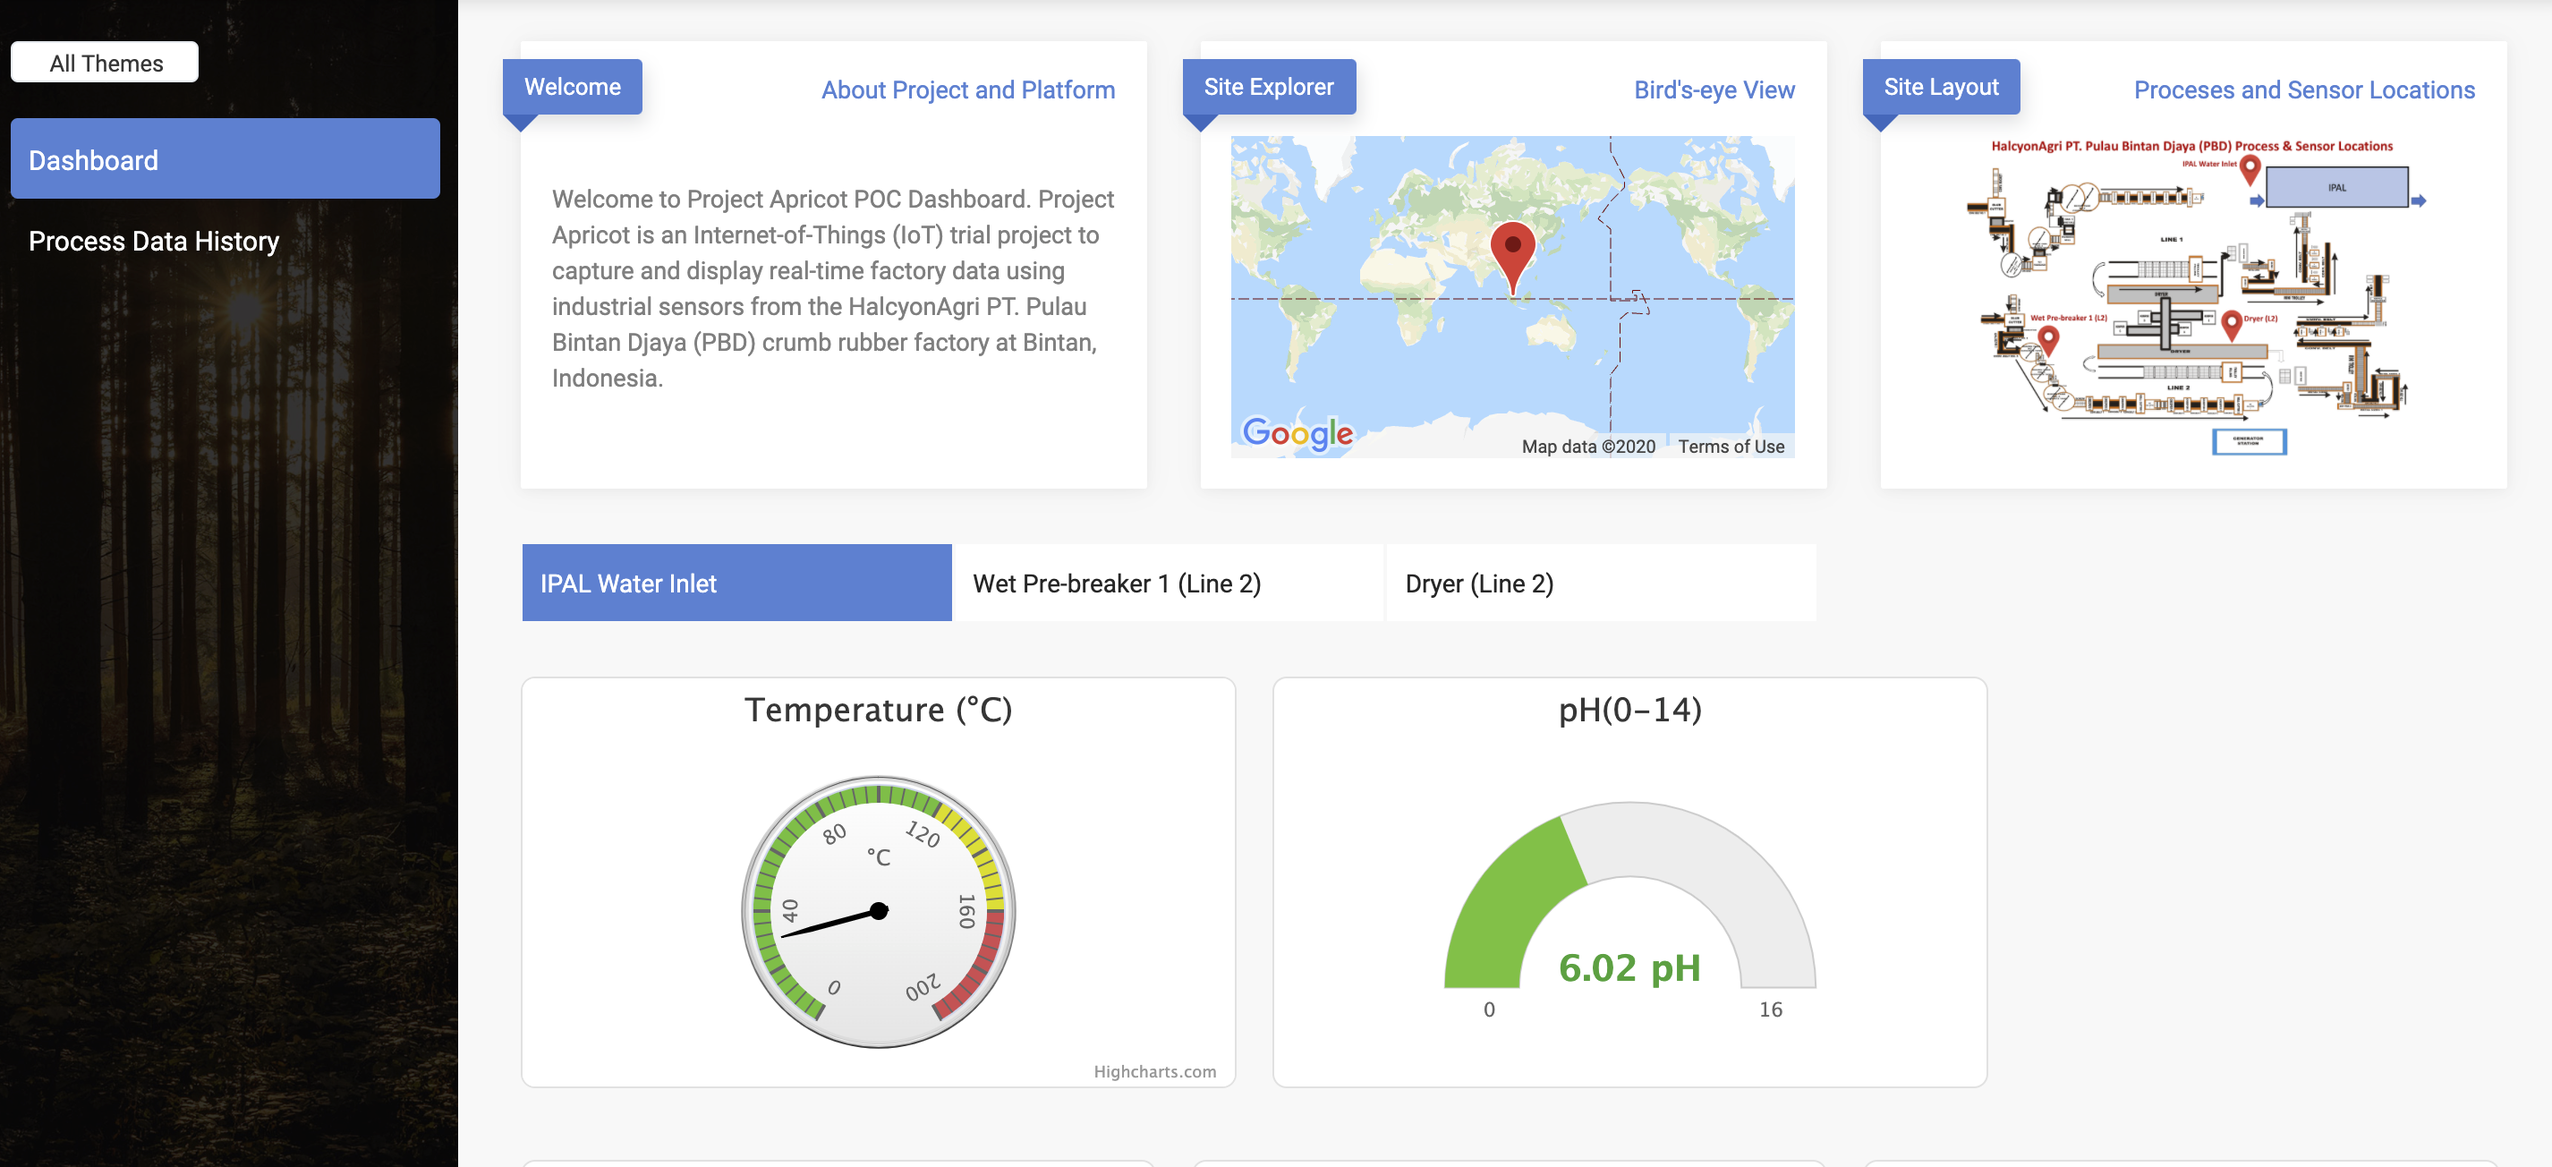
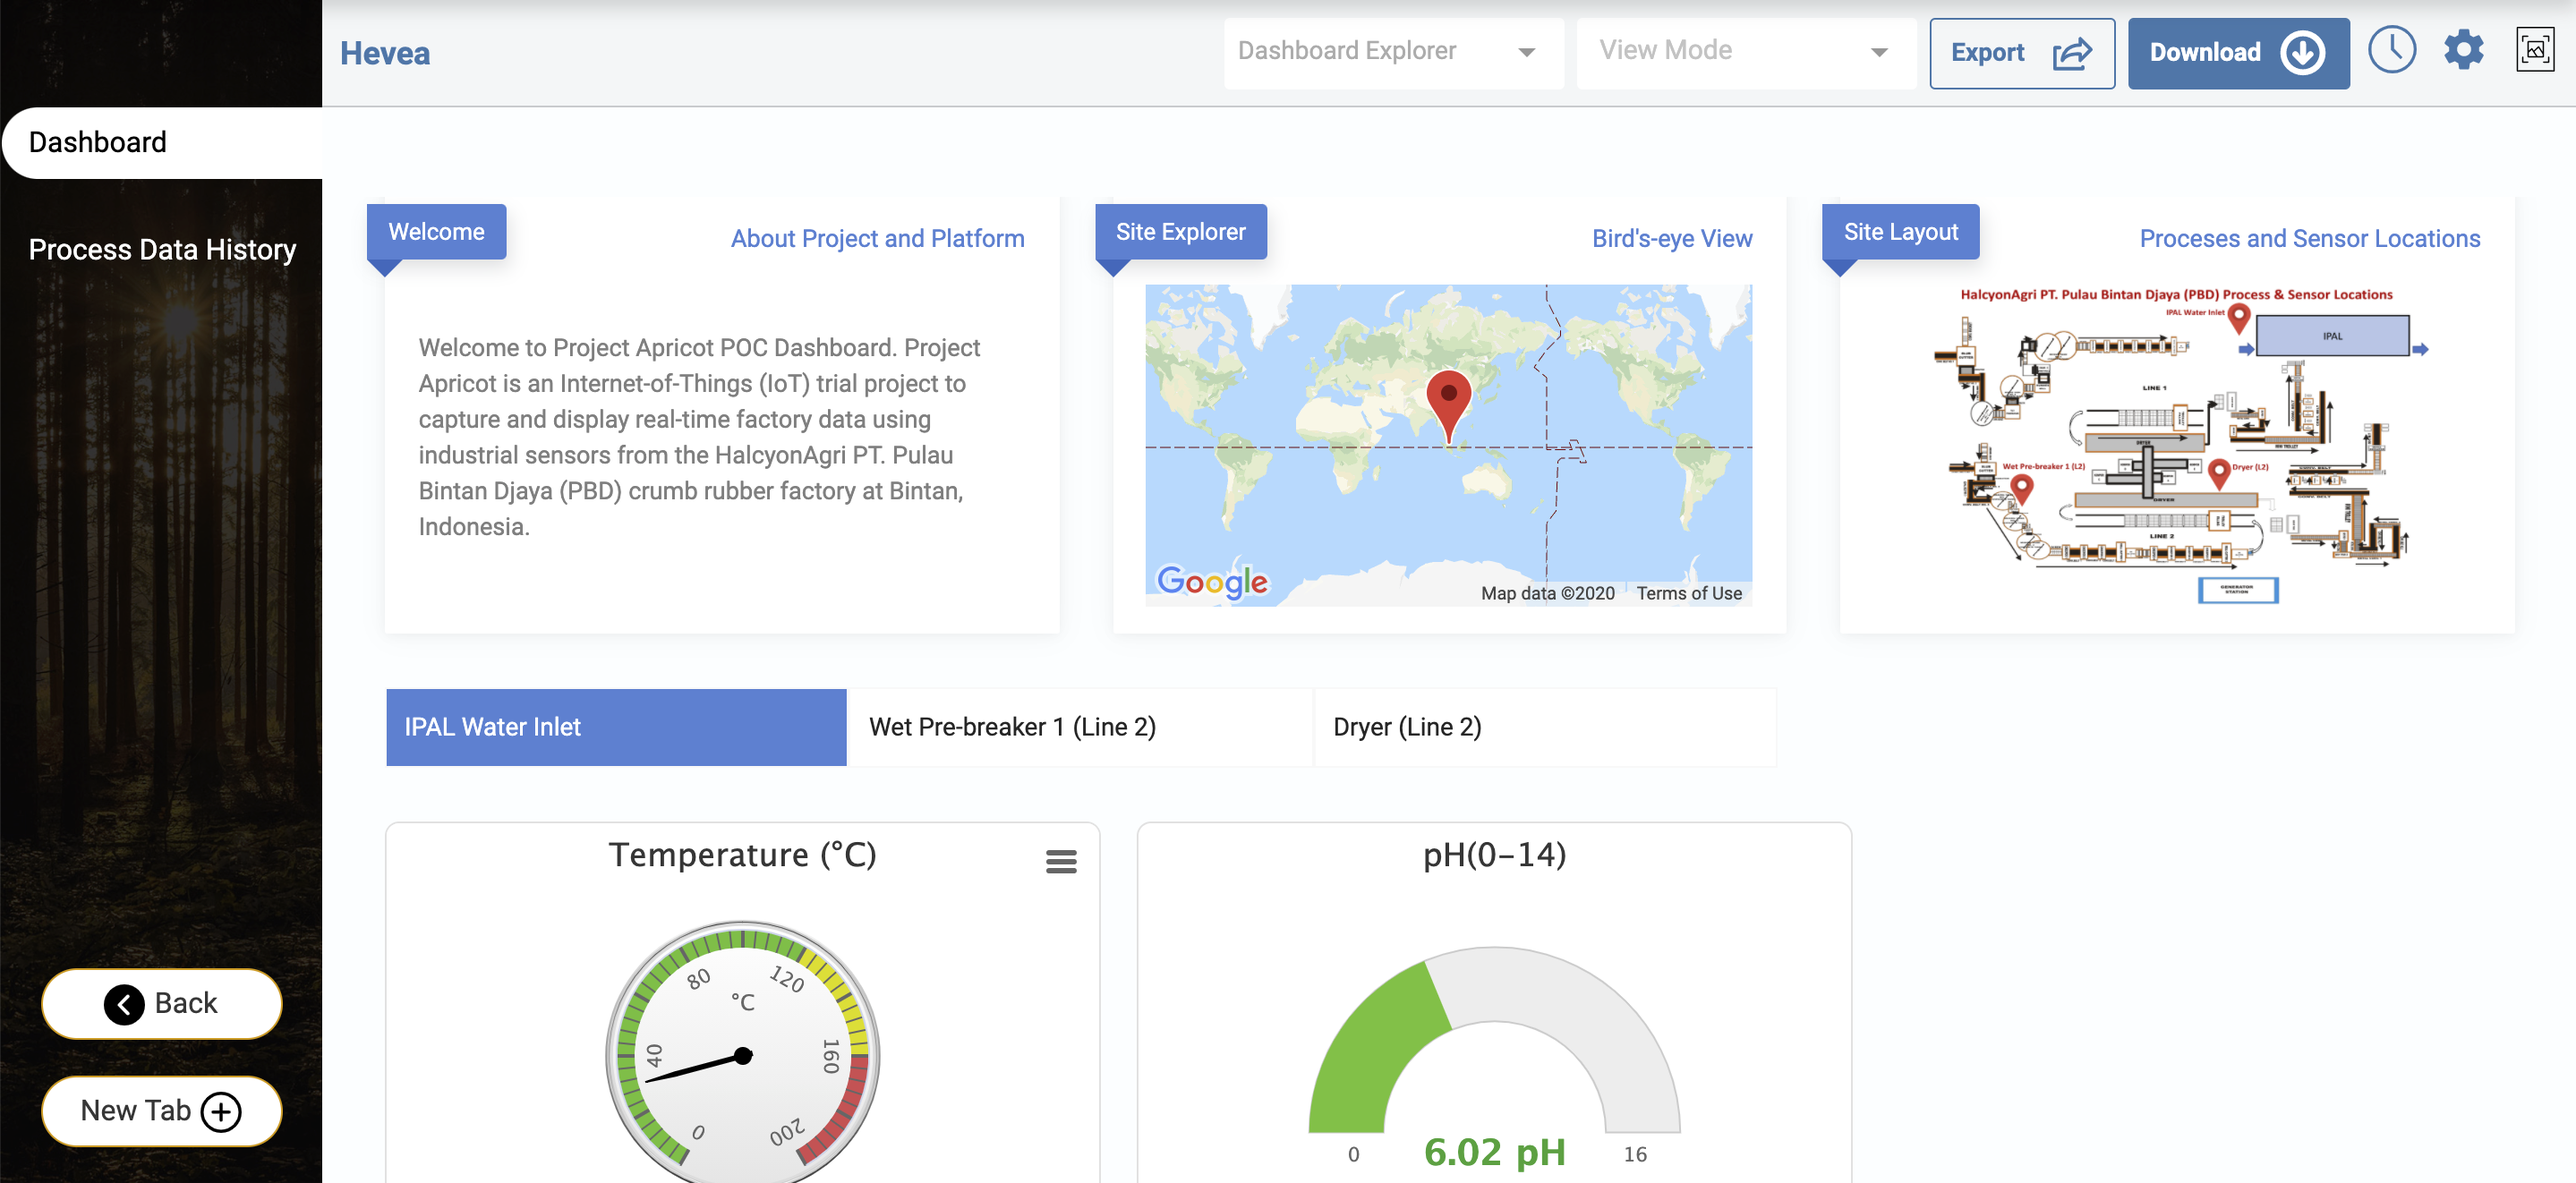
dashboard fixes

diff --git a/src/views/app/dashboard/dashboardSettings/editSettingsSections.vue b/src/views/app/dashboard/dashboardSettings/editSettingsSections.vue
@@ -18,6 +18,11 @@
             <b-form-input v-model="dashboardData.settings.sidebar_color" type="color"></b-form-input>
           </div>
         </b-form-group>
+        <b-form-group label="Dashboard Thumbnail">
+          <input type="file" @change="uploadThumbnail" />
+          <div v-if="dashboardData.settings.thumbnail_url" class="thumbnail-preview" :style="{background: getThumbnailUrl()}">
+          </div>
+        </b-form-group>
       </b-form>
     </section>
     <section v-if="selectedSectionIndex === 2">
@@ -69,6 +74,7 @@ import { mapGetters } from 'vuex'
 import fields from './panelFieldsDef'
 import Vuetable from 'vuetable-2'
 import dashboardService from '@/services/dashboard.service'
+import imageService from '@/services/image.service'
 import dasbhoardEventBus from './../dashboardBus'
 
 export default {
@@ -84,7 +90,8 @@ export default {
         settings: {
           background_color: '#ffffff',
           client_name: '',
-          sidebar_color: '#000000'
+          sidebar_color: '#000000',
+          thumbnail_url: ''
         }
       },
       panels: [],
@@ -106,13 +113,30 @@ export default {
     uploadLogo (file) {
       this.selectedLogo = file.target.files[0]
     },
+    uploadThumbnail (file) {
+      let formData = new FormData()
+      let thumbnail = file.target.files[0]
+
+      formData.append('image', thumbnail, thumbnail.name)
+      formData.append('path', 'dashboard')
+
+      imageService.create(formData)
+        .then((res) => {
+          let settings = this.$_.merge({}, this.dashboardData.settings, { thumbnail_url: res.url })
+          this.dashboardData = this.$_.merge({}, this.dashboardData, { settings: settings })
+        })
+    },
+    getThumbnailUrl () {
+      return "url('" + this.dashboardData.settings.thumbnail_url + "')"
+    },
     getVisualSettings () {
       return {
         name: this.dashboardData.name,
         settings: {
           background_color: this.dashboardData.settings['background_color'],
           client_name: this.dashboardData.settings['client_name'],
-          sidebar_color: this.dashboardData.settings['sidebar_color']
+          sidebar_color: this.dashboardData.settings['sidebar_color'],
+          thumbnail_url: this.dashboardData.settings['thumbnail_url']
         }
       }
     },
@@ -125,6 +149,7 @@ export default {
       formData.append('settings[background_color]', this.dashboardData.settings['background_color'])
       formData.append('settings[client_name]', this.dashboardData.settings['client_name'])
       formData.append('settings[sidebar_color]', this.dashboardData.settings['sidebar_color'])
+      formData.append('settings[thumbnail_url]', this.dashboardData.settings['thumbnail_url'])
 
       return formData
     },
@@ -170,7 +195,8 @@ export default {
       settings: {
         background_color: this.selectedDashboard.settings ? this.selectedDashboard.settings['background_color'] : '#FFFFFF',
         client_name: this.selectedDashboard.settings ? this.selectedDashboard.settings['client_name'] || '' : '',
-        sidebar_color: this.selectedDashboard.settings ? this.selectedDashboard.settings['sidebar_color'] : '#000000'
+        sidebar_color: this.selectedDashboard.settings ? this.selectedDashboard.settings['sidebar_color'] : '#000000',
+        thumbnail_url: this.selectedDashboard.settings ? this.selectedDashboard.settings['thumbnail_url'] : ''
       }
     })
   }
@@ -200,6 +226,14 @@ export default {
       padding: 0;
       background-color: #F3F7FB !important;
     }
+  }
+  .thumbnail-preview {
+    background-size: cover !important;
+    background-position: center !important;
+    width: 120px;
+    height: 120px;
+    margin-top: 20px;
+    border-radius: 4px;
   }
   .panels-table {
     .icon {

diff --git a/src/views/app/dashboard/open/dashboardGrid.vue b/src/views/app/dashboard/open/dashboardGrid.vue
@@ -7,13 +7,10 @@
     </div> -->
     <div class="grid dashboards-grid row">
       <div class="col-md-4 grid-item" v-for="(dashboard, index) in dashboards" :key="index">
-        <div class="img-wrap" @click="selectDashboard(dashboard)">
-          <img :src="dashboard.imageUrl" alt="" v-if="dashboard.imageUrl">
-          <img src="/assets/img/historian.png" alt="" v-if="dashboard.name === 'Smart IoT Pole Demo (Historian)'">
-          <img src="/assets/img/overview.png" alt="" v-if="dashboard.name === 'Smart IoT Pole Demo (Overview)'">
+        <div class="item-wrap" @click="selectDashboard(dashboard)" :style="{background: getThumbnailUrl(dashboard)}">
           <div class="overlay">
              <div class="actions" v-if="!dashboard.dummy">
-              <svg class="icon dustbin" @click="deleteDashboard(dashboard)">
+              <svg class="icon dustbin" @click.stop="deleteDashboard(dashboard)">
                 <use xlink:href="/assets/img/mads-common-icons.svg#dustbin"></use>
               </svg>
             </div>
@@ -21,11 +18,6 @@
         </div>
         <div class="header">
           <span class="name">{{dashboard.name}}</span>
-          <!-- <div class="actions" v-if="!dashboard.dummy">
-            <svg class="icon dustbin" @click="deleteDashboard(dashboard)">
-              <use xlink:href="/assets/img/mads-common-icons.svg#dustbin"></use>
-            </svg>
-          </div> -->
         </div>
       </div>
     </div>
@@ -81,8 +73,12 @@ export default {
           loader.hide()
         })
     },
-    getBackgroundUrl (url) {
-      return 'url(' + url + ')'
+    getThumbnailUrl (dashboard) {
+      if (dashboard.settings && dashboard.settings.thumbnail_url) {
+        return "url('" + dashboard.settings.thumbnail_url + "')"
+      } else {
+        return "url('')"
+      }
     },
     selectDashboard (dashboard) {
       this.setDashboard(dashboard)
@@ -177,7 +173,7 @@ export default {
           }
         }
       }
-      .img-wrap {
+      .item-wrap {
         height: 258px;
         background-color: #fff;
         cursor: pointer;
@@ -185,11 +181,14 @@ export default {
         align-items: center;
         justify-content: center;
         box-shadow: 0px 2px 6px rgba(0, 0, 0, 0.14902);
-        border-radius: 10px;
+        border-radius: 4px;
         position: relative;
+        background-size: cover !important;
+        background-position: left !important;
+
         &:hover{
           .overlay{
-            opacity: 1;
+            opacity: .8;
           }
         }
         img {
@@ -212,15 +211,17 @@ export default {
           .actions {
             height: 100%;
             display: flex;
-            // align-items: center;
             justify-content: flex-end;
             .icon {
               width: 25px;
               height: 25px;
               cursor: pointer;
               margin: 15px;
-              &:hover{
-                path{
+              padding: 4px;
+              border-radius: 4px;
+              &:hover {
+                background-color: #3576AB;
+                path {
                   stroke: #000;
                 }
               }

diff --git a/src/views/app/dashboard/open/index.vue b/src/views/app/dashboard/open/index.vue
@@ -66,26 +66,31 @@ export default {
             {
               name: 'Shea',
               key: 'shea',
-              imageUrl: '/assets/img/shea.png',
-              dummy: true
+              dummy: true,
+              settings: {
+                thumbnail_url: '/assets/img/shea.png'
+              }
             },
             {
               name: 'Hevea',
               key: 'hevea',
-              imageUrl: '/assets/img/hevea.png',
-              dummy: true
+              dummy: true,
+              settings: {
+                thumbnail_url: '/assets/img/hevea.png'
+              }
             },
             {
               name: 'Smart Agriculture',
               key: 'smart_agriculture',
-              imageUrl: '/assets/img/smart_agriculture.png',
-              dummy: true
+              dummy: true,
+              settings: {
+                thumbnail_url: '/assets/img/smart_agriculture.png'
+              }
             }
           ])
         })
     },
     loadDashboard (id) {
-      let loader = this.$loading.show()
       let config = { orgId: this.currentUser.org.id, id: id }
 
       dashboardService.readId(config)
@@ -93,7 +98,6 @@ export default {
           this.setDashboard(dashboard)
           this.setPanel(dashboard.panels[0])
           DashboardEventBus.$emit('reload-dashboard-panel')
-          loader.hide()
         })
     },
     onSelectDashboard (dashboard) {
@@ -116,6 +120,7 @@ export default {
     this.loadDashboards()
 
     DashboardEventBus.$on('reload-dashboards', () => {
+      this.dashboards = []
       this.loadDashboards()
     })
   },

diff --git a/src/views/app/dashboard/blankTemplate/index.vue b/src/views/app/dashboard/blankTemplate/index.vue
@@ -30,7 +30,7 @@
                 :is-resizable="isEditMode"
                 :is-mirrored="false"
                 :vertical-compact="true"
-                :margin="[20, 20]"
+                :margin="[10, 18]"
                 :use-css-transforms="true"
             >
                 <grid-item v-for="item in layout" :x="item.x" :y="item.y" :w="item.w" :h="item.h" :i="item.i" :key="item.i">
@@ -464,16 +464,15 @@ export default {
     display: flex;
     height: 100%;
     .content-wrap {
-      width: calc(100% - 180px);
+      width: calc(100% - 150px);
       overflow: auto;
       background-color: #ffffff;
       position: relative;
       .widgets-wrap {
         width: 100%;
         height: calc(100% - 60px);
-        padding: 10px;
+        padding: 0 5px 20px;
         overflow: auto;
-        // background-color: #f2f2f2;
         .vue-grid-layout {
           .vue-grid-item {
             background-color: white;

diff --git a/src/views/app/dashboard/smartAgricultureTemplate/index.vue b/src/views/app/dashboard/smartAgricultureTemplate/index.vue
@@ -63,7 +63,7 @@ export default {
     display: flex;
     height: 100%;
     .sidebar {
-      width: 180px;
+      width: 150px;
       background-color: #1E3664;
       position: relative;
       padding-top: 40px;
@@ -123,7 +123,7 @@ export default {
       }
     }
     .content-wrap {
-      width: calc(100% - 180px);
+      width: calc(100% - 150px);
       overflow: auto;
       position: relative;
       .content {

diff --git a/src/views/app/dashboard/sheaTemplate/index.vue b/src/views/app/dashboard/sheaTemplate/index.vue
@@ -75,7 +75,7 @@ export default {
     display: flex;
     height: 100%;
     .sidebar {
-      width: 180px;
+      width: 150px;
       background-color: #1E3664;
       position: relative;
       padding-top: 40px;
@@ -135,7 +135,7 @@ export default {
       }
     }
     .content-wrap {
-      width: calc(100% - 180px);
+      width: calc(100% - 150px);
       overflow: auto;
       .content {
         width: 100%;

diff --git a/src/views/app/dashboard/heveaTemplate/index.vue b/src/views/app/dashboard/heveaTemplate/index.vue
@@ -66,7 +66,7 @@ export default {
     display: flex;
     height: 100%;
     .sidebar {
-      width: 180px;
+      width: 150px;
       position: relative;
       height: 100%;
       .sidebar-background {
@@ -143,7 +143,7 @@ export default {
       }
     }
     .content-wrap {
-      width: calc(100% - 180px);
+      width: calc(100% - 150px);
       overflow: auto;
       .content {
         width: 100%;

diff --git a/src/App.vue b/src/App.vue
@@ -332,7 +332,6 @@
   input, button:not(.btn-login):not(.btn-register):not(.VueCarousel-dot):not(.custom-btn) {
     background-color: #ffffff;
     color: #333;
-    // border-color: #e4e9ef;
     border-radius: 4px;
   }
   input, textarea, .multiselect > .multiselect__tags {

diff --git a/src/views/app/dashboard/dashboardSettings/editSettings.vue b/src/views/app/dashboard/dashboardSettings/editSettings.vue
@@ -76,6 +76,7 @@ export default {
       dashboardService.update(config, params)
         .then((response) => {
           dasbhoardEventBus.$emit('reload-dashboard')
+          dasbhoardEventBus.$emit('reload-dashboards')
           loader.hide()
         })
     }

diff --git a/src/views/app/dashboard/dashboardHeader.vue b/src/views/app/dashboard/dashboardHeader.vue
@@ -194,6 +194,7 @@ export default {
         text-align: left;
         display: flex;
         align-items: center;
+        margin-left: 7px;
         &.new-btn {
           display: flex;
           align-items: center;

diff --git a/src/assets/css/sass/_piaf.style.scss b/src/assets/css/sass/_piaf.style.scss
@@ -773,7 +773,7 @@ button {
 
 .btn-secondary {
   background-color: $theme-color-2;
-  border-color: $theme-color-2;
+  // border-color: $theme-color-2;
   color: $button-text-color;
 
   &:hover {

diff --git a/src/views/app/dashboard/blankTemplate/sidebar.vue b/src/views/app/dashboard/blankTemplate/sidebar.vue
@@ -82,7 +82,7 @@ export default {
 
 <style lang="scss" scoped>
   .sidebar {
-    width: 180px;
+    width: 150px;
     position: relative;
     height: 100%;
     .client-info {
